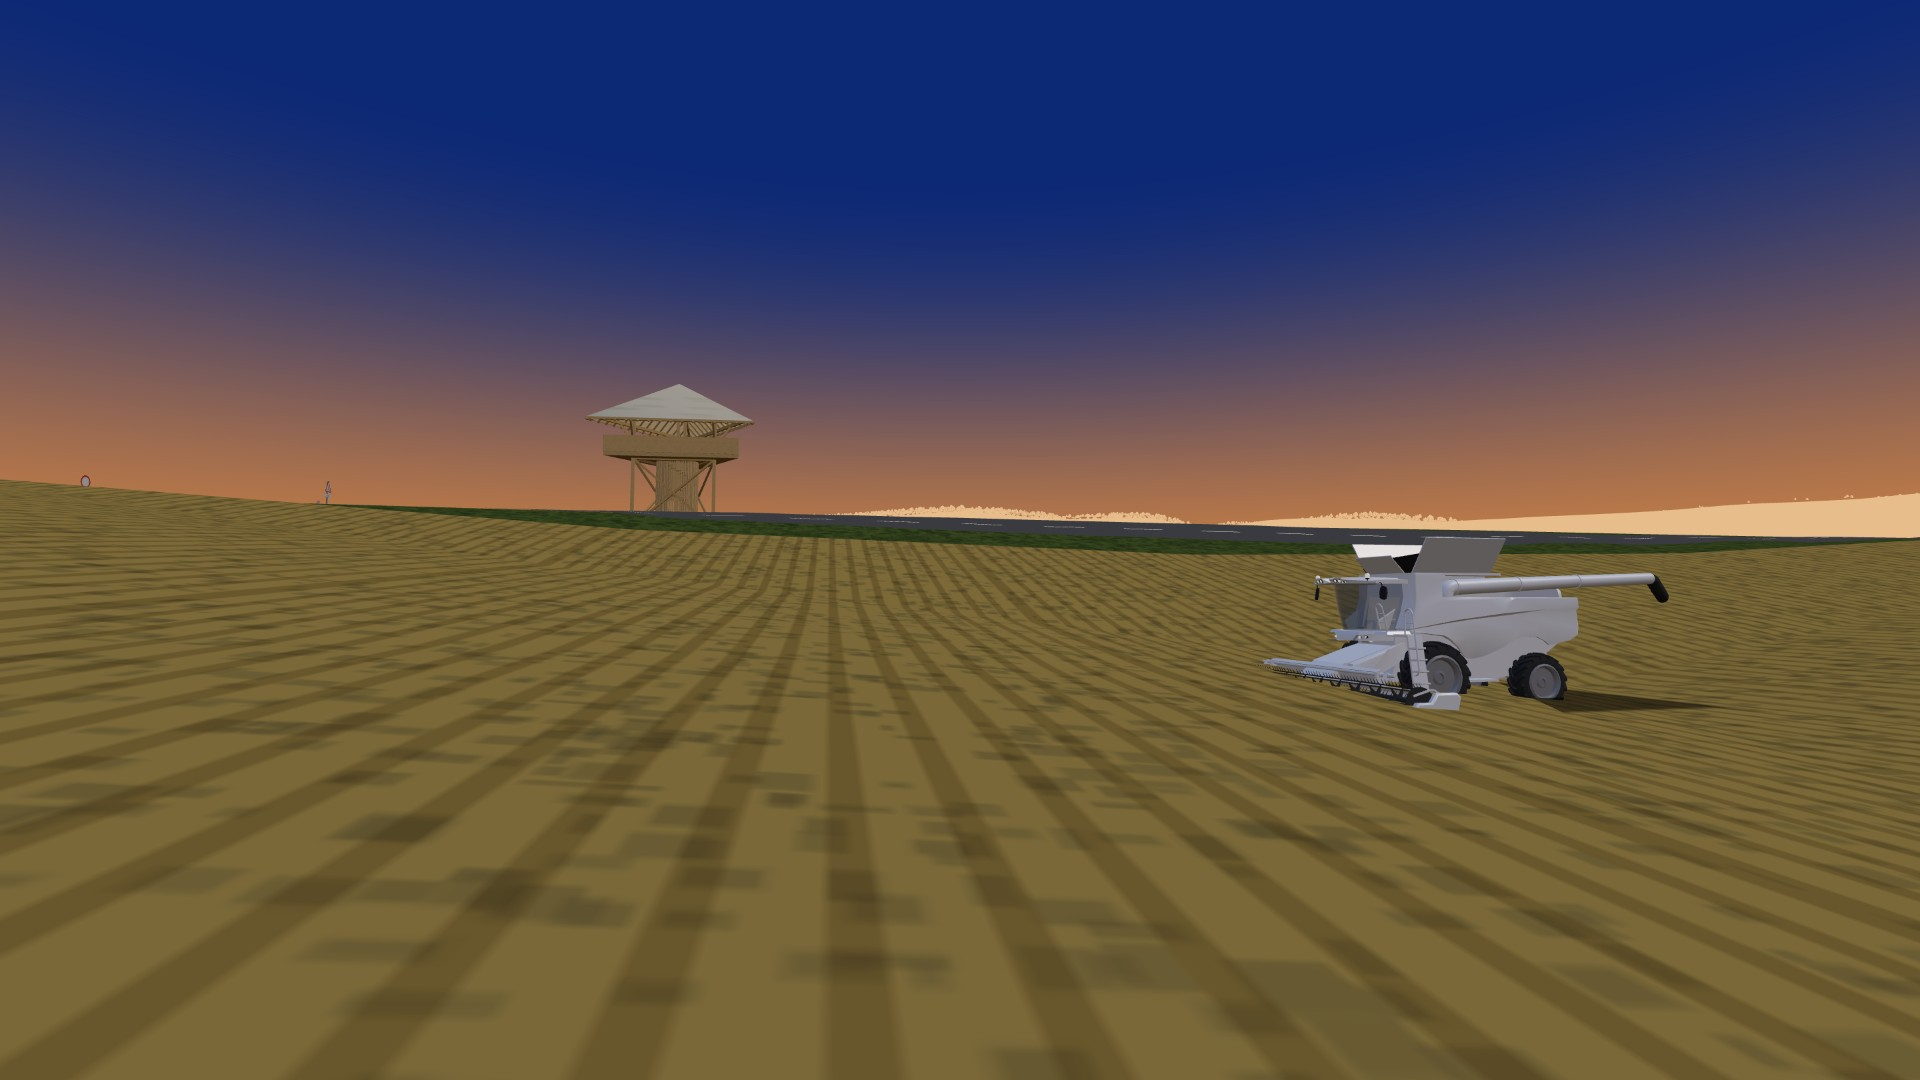
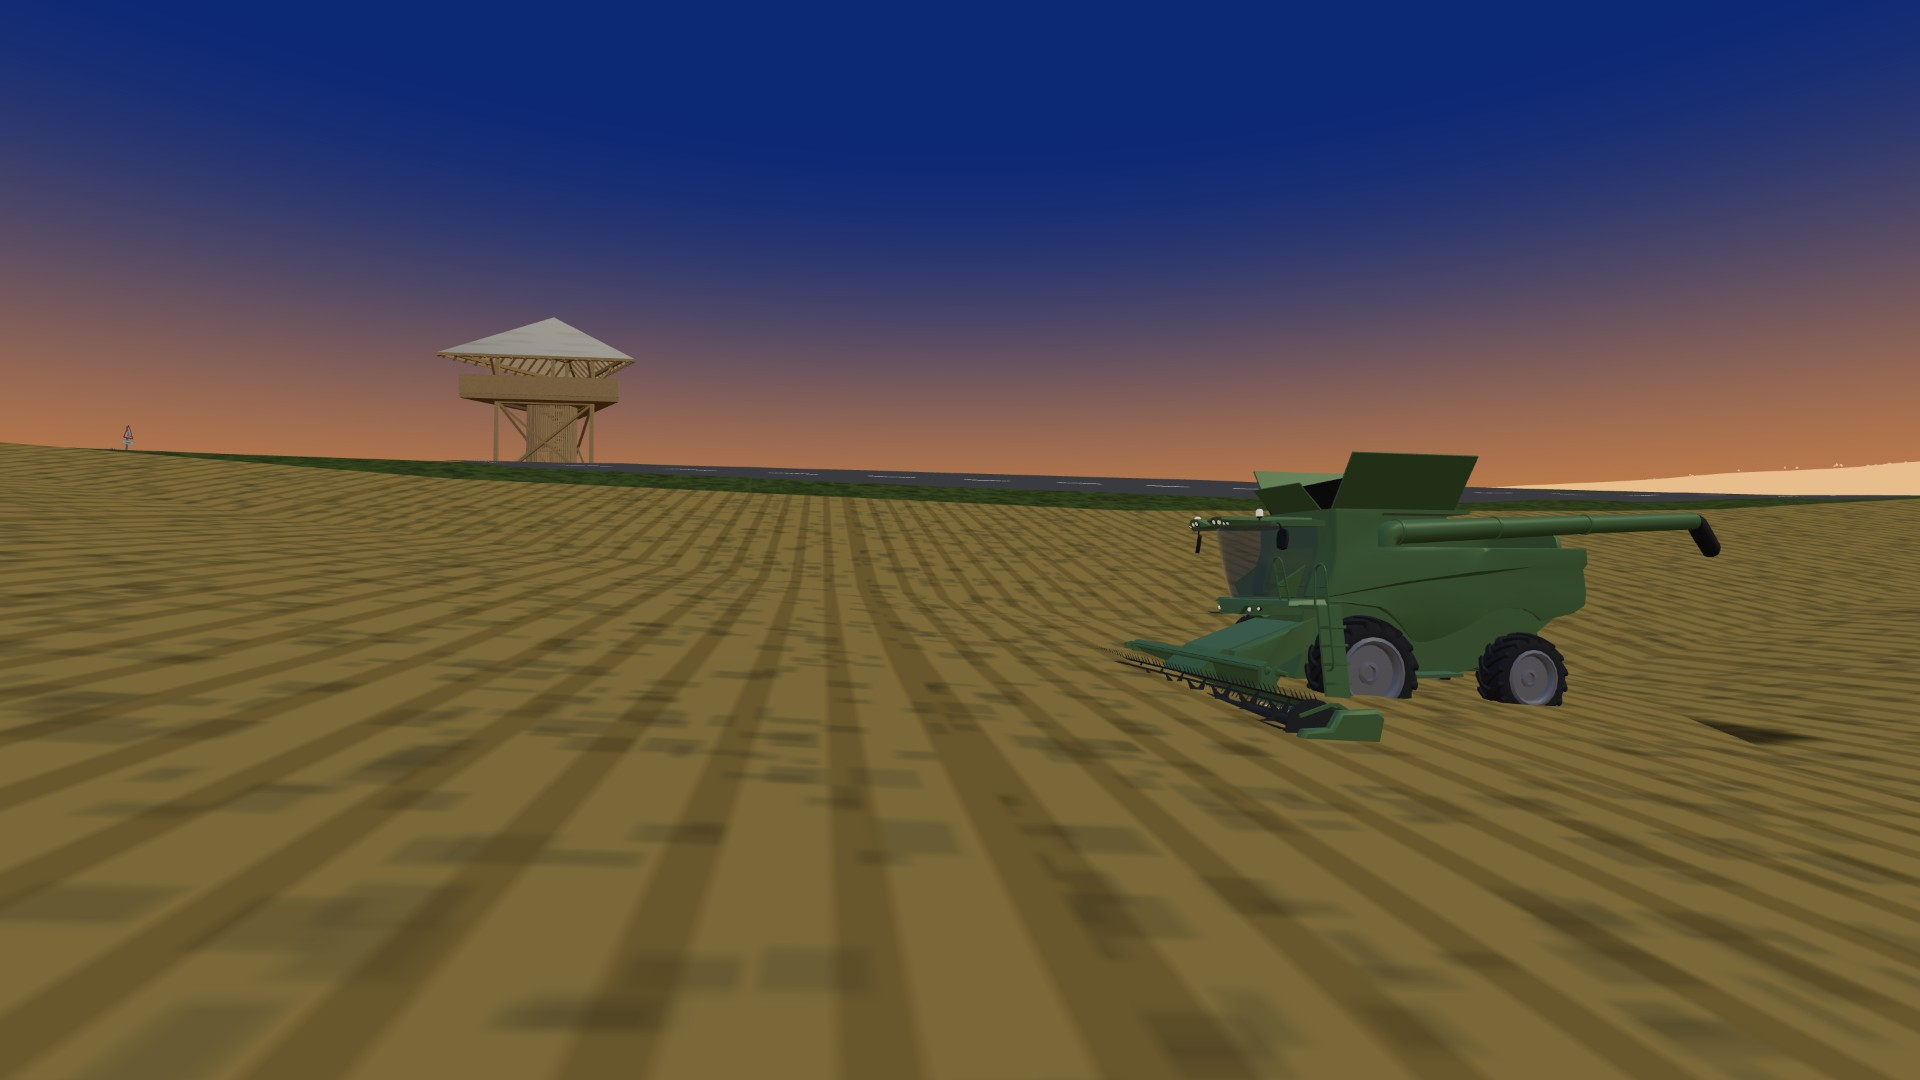
docs(gallery): green combine harvester, closer
Motifs may set a paint (carselect.js PAINTS); the game exposes
window.__mm.setPaint for the shot script.

Claude-Session: https://claude.ai/code/session_01CCZvVD3W1FFQ2k8dsQQTey

diff --git a/index.html b/index.html
@@ -5561,6 +5561,7 @@ window.__mm.genericBridges = () => OSM_BRIDGES.filter(b => b.kind === 'generic' 
 // vehicle table (#5): tests activate a modified copy of compact and watch the game change
 window.__mm.vehicles = () => structuredClone(VEHICLES);
 window.__mm.loadVehicle = (id) => loadVehicleModel(id);   // #236: resolves true when the glTF car is ready
+window.__mm.setPaint = (id) => applyPaint(id);   // gallery shots (scripts/shots.py): a motif's own paint
 window.__mm.gltfVehicle = (id = 'hatchback') => { const e = GLTF_CARS[id]; return { state: e?.state ?? 'idle', tris: Math.round(e?.tris ?? 0), materials: (e?.mats?.all ?? []).map(m => m.name), wheels: car.userData.wheels?.length ?? 0, paintColor: e?.mats?.paint ? '#' + e.mats.paint.color.getHexString() : null, lamps: { head: e?.mats?.head.length ?? 0, tail: e?.mats?.tail.length ?? 0, headLevel: e?.mats?.head[0]?.emissiveIntensity ?? null, tailLevel: e?.mats?.tail[0]?.emissiveIntensity ?? null } }; };
 window.__mm.vehicle = () => structuredClone(VEH);
 window.__mm.carSize = () => ({ ...CAR_SIZE });   // #69: body box in world metres, measured at build time (measureCar)

diff --git a/scripts/shots.py b/scripts/shots.py
@@ -39,7 +39,8 @@ STYLES = ("original", "smooth")
 VEHICLES = ("compact", "delorean", "mini", "bus", "estate", "coupe", "hyper", "harvester")
 TIMES = ("day",)        # the game has no time of day (spec A3)
 WEATHERS = ("clear",)   # nor weather
-ENUMS = {"mode": MODES, "camera": CAMERAS, "style": STYLES, "vehicle": VEHICLES, "time": TIMES, "weather": WEATHERS, "start": STARTS}
+PAINTS = ("navy", "sunflower", "signal", "swiss", "rhine", "ice", "meadow", "cream", "charcoal", "plum", "flamingo", "racing", "silver")   # optional `paint` (carselect.js PAINTS)
+ENUMS = {"paint": PAINTS, "mode": MODES, "camera": CAMERAS, "style": STYLES, "vehicle": VEHICLES, "time": TIMES, "weather": WEATHERS, "start": STARTS}
 ID_RE = re.compile(r"[a-z0-9]+(-[a-z0-9]+)*")
 NEAR_MAX_M = 600
 COUNT_RANGE = (8, 18)
@@ -226,6 +227,8 @@ def stage(page, shot: dict) -> None:
     """Style, vehicle, placement, motion: everything the picture shows, before the clean-up and the camera wait."""
     page.evaluate("(k) => window.__mm.setStyle(k)", shot["style"])
     page.evaluate("async (id) => { const v = window.__mm.vehicles()[id]; if (!v) throw new Error('unknown vehicle ' + id); if (v.gltf) await window.__mm.loadVehicle(id); window.__mm.setVehicle(v); }", shot["vehicle"])   # glTF cars: wait for the model, not the stand-in
+    if "paint" in shot:
+        page.evaluate("(id) => window.__mm.setPaint(id)", shot["paint"])
     page.evaluate("([x, z, th]) => window.__mm.place(x, z, th)", [shot["at"]["x"], shot["at"]["z"], heading(shot["at"], shot["look_at"])])
     if shot["mode"] == "heli":
         page.keyboard.press("KeyF")
